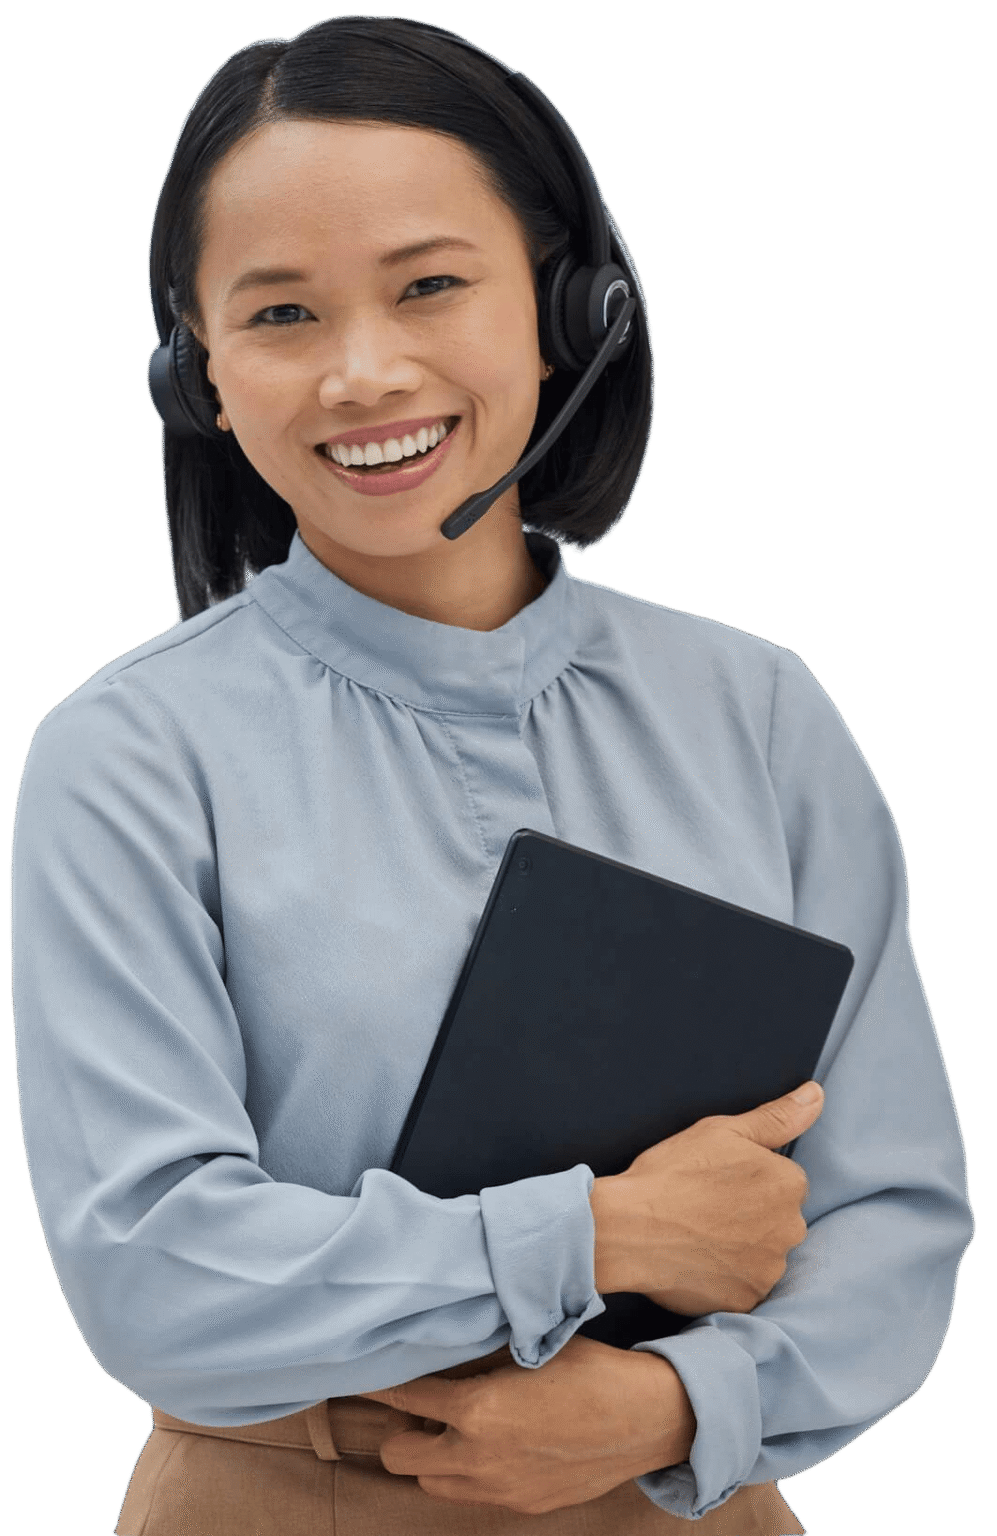
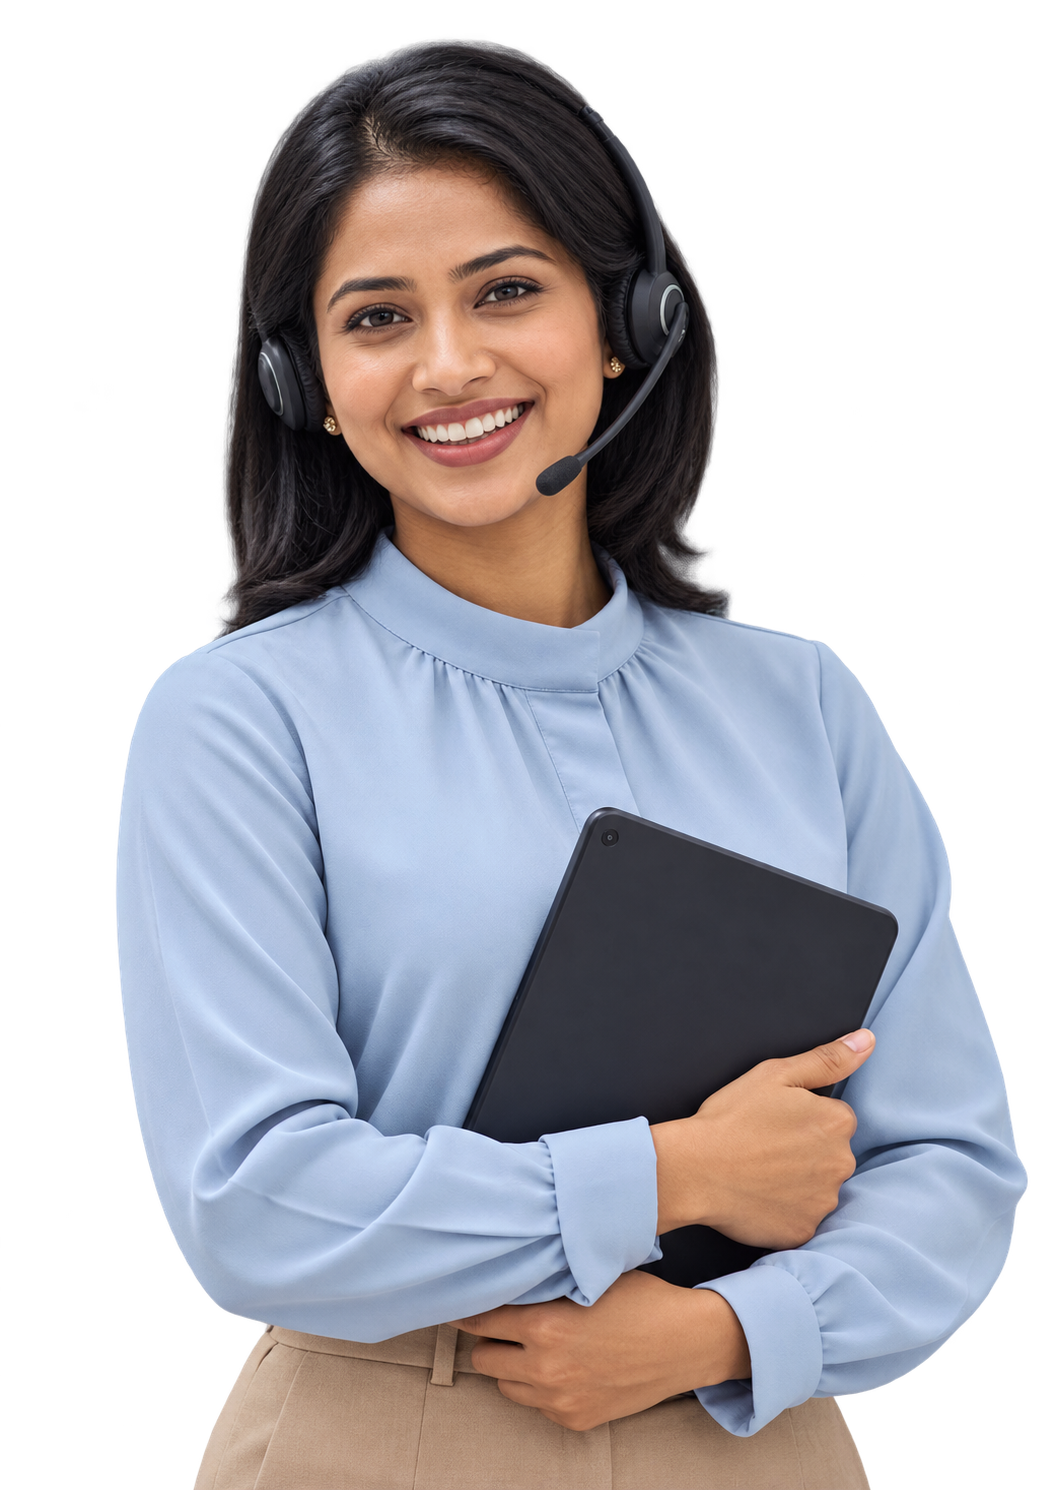
Tweak about image, partner overlap spacing, and services alignment

diff --git a/src/components/AboutSection.jsx b/src/components/AboutSection.jsx
@@ -178,7 +178,7 @@ function AboutSection() {
         </div>
 
         <div
-          className={`about-partner relative z-[2] w-full overflow-hidden rounded-[26px] border border-white/10 bg-[#101a1f] px-[18px] pb-[36px] pt-[38px] md:mt-[-265px] md:px-[34px] lg:px-[52px] lg:pb-[46px] lg:pl-[430px] lg:pt-[54px]`}
+          className={`about-partner relative z-[2] w-full overflow-hidden rounded-[26px] border border-white/10 bg-[#101a1f] px-[18px] pb-[36px] pt-[38px] md:mt-[-268px] md:px-[34px] lg:px-[52px] lg:pb-[46px] lg:pl-[430px] lg:pt-[54px]`}
         >
           <div
             className="pointer-events-none absolute inset-0 opacity-50"

diff --git a/src/components/ServicesSection.jsx b/src/components/ServicesSection.jsx
@@ -94,7 +94,7 @@ function ServicesSection() {
     >
       <div className="container">
         <div className="overflow-hidden px-[0px]">
-          <div className="mb-[54px] grid gap-[28px] lg:grid-cols-[180px_minmax(0,1fr)_220px]">
+          <div className="mb-[54px] grid items-start gap-[28px] lg:grid-cols-[180px_minmax(0,1fr)_220px]">
             <div className="flex items-center gap-[12px] text-[15px] font-semibold text-white py-[15px]">
               <span className="h-[10px] w-[10px] shrink-0 bg-white"></span>
               Our Services

diff --git a/src/assets/css/style.css b/src/assets/css/style.css
@@ -1399,12 +1399,11 @@
   }
 
   .about-us-img {
-    max-height: 460px;
+    max-height: 630px;
   }
 
   .about-partner {
-    margin-top: -70px;
-    padding-left: 52px;
+    margin-top: -250px;
   }
 
   .service-li {
@@ -1540,6 +1539,10 @@
 
   .container {
     max-width: 100%;
+  }
+
+  .about-partner {
+    margin-top: 0;
   }
 }
 
